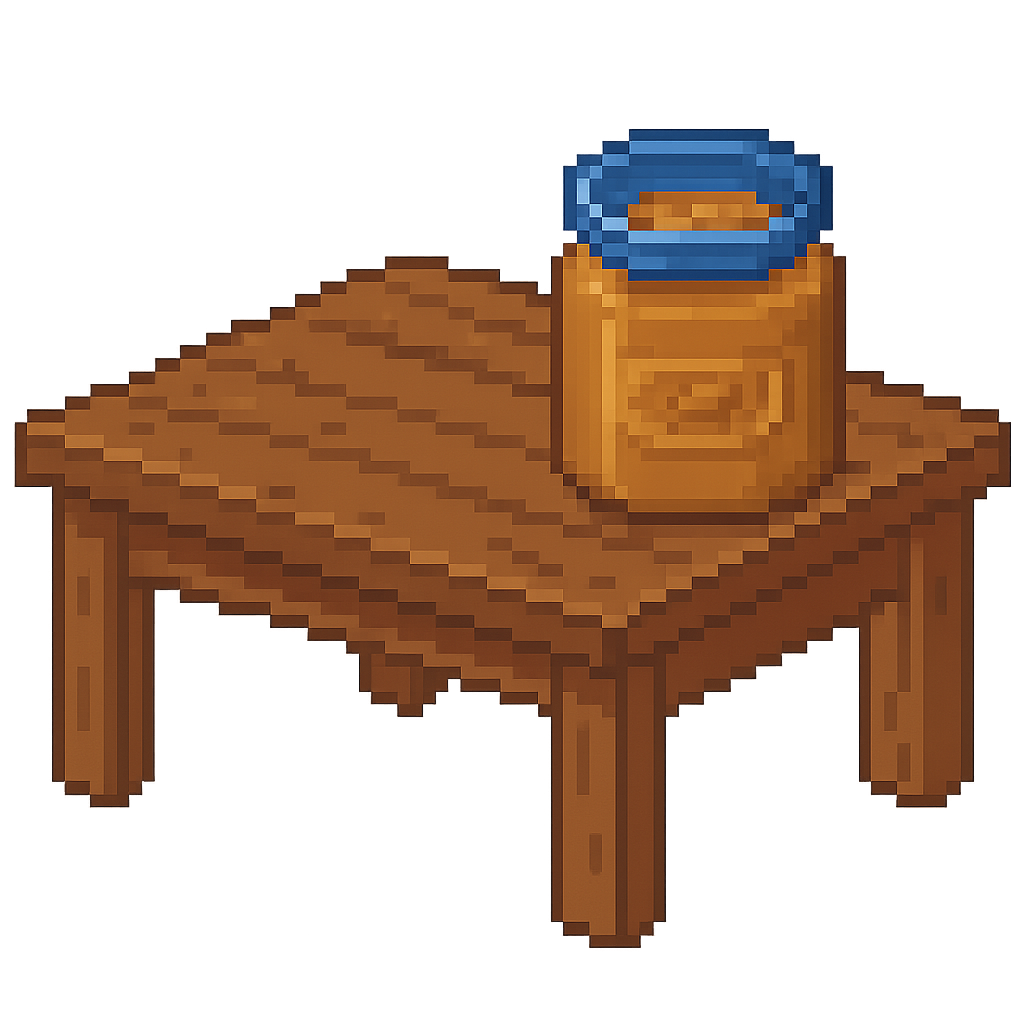
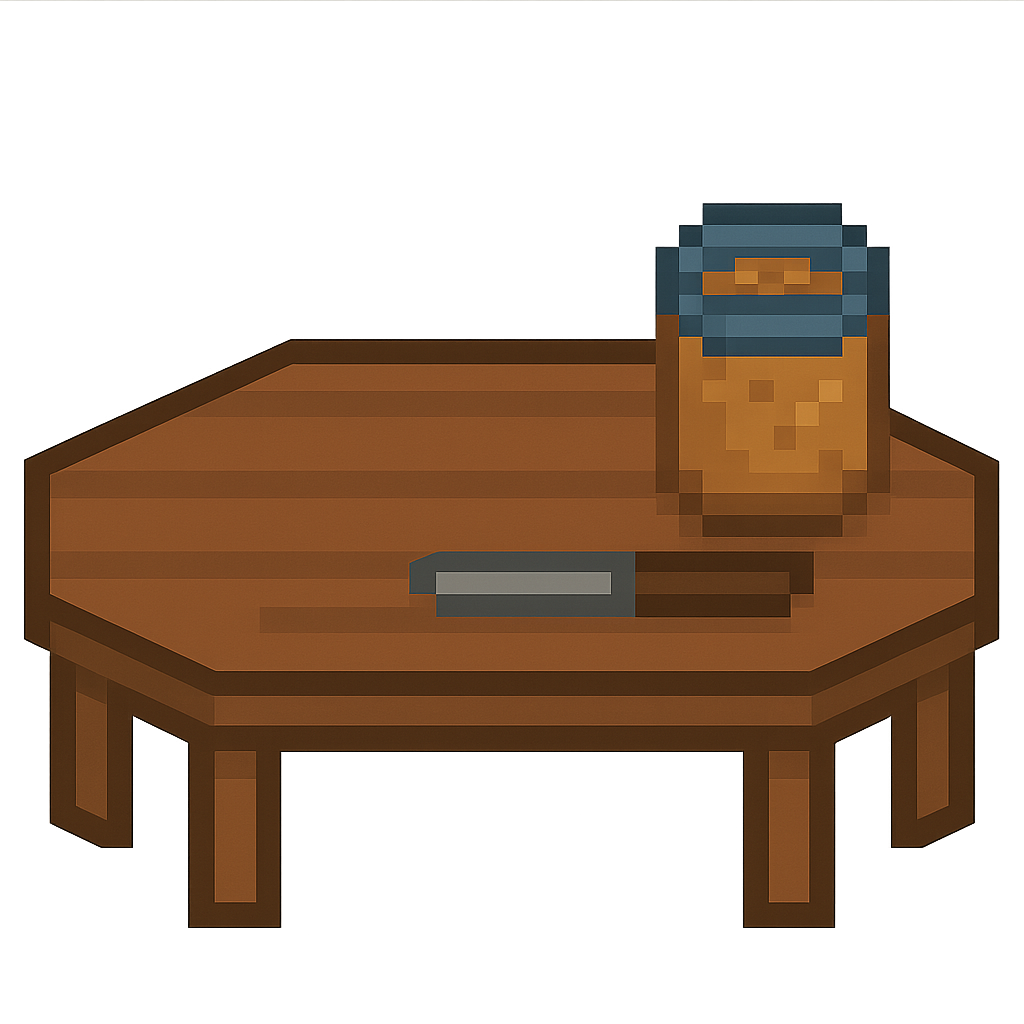
Added phase 2 table

diff --git a/client/src/App.jsx b/client/src/App.jsx
@@ -118,7 +118,7 @@ function App(){
       if(phase1 && lowerUserInput != instruction2){
         //Message At Phase 1 (Wrong)
         if(!phase1 && lowerUserInput == "eat"){
-          setDialogue("You ate the Bread.You Lost.")
+          setDialogue("You ate the Bread.You Lost.");
           setWon(false);
           setLost(true);
           clearInterval(interval.current);
@@ -134,7 +134,7 @@ function App(){
 
       if(lowerUserInput == instruction2 && phase1 == true){
         setPhase2(true);
-        setDialogue("You put the bread on the table.")
+        setDialogue("You put the bread on the table.");
       }
 
       if(phase2 && lowerUserInput != instruction3){
@@ -184,7 +184,7 @@ function App(){
       }
       if(lowerUserInput == instruction5 && phase4 == true){
         setPhase5(true);
-        setDialogue("The Butter Is Now On The Knife.")
+        setDialogue("The Butter Is Now On The Knife.");
       }
       if(phase5 && lowerUserInput != instruction6){
         //Message At Phase 5 (Wrong)
@@ -200,18 +200,18 @@ function App(){
       }
       if(lowerUserInput == instruction6 && phase5 == true){
         setPhase6(true);
-        setDialogue("The Butter is Now On The Bread.")
+        setDialogue("The Butter is Now On The Bread.");
       }
       if(phase6 && lowerUserInput != instruction7){
         //Message At Phase 6 (Wrong)
       }
       if(lowerUserInput == instruction7 && phase6 == true){
         setPhase7(true);
-        setDialogue("You Ate The Peanut Butter Bread!You Won!")
+        setDialogue("You Ate The Peanut Butter Bread!You Won!");
         setTimeout(() => {
             endScreen();
             setWon(true);
-            clearInterval(interval.current)
+            clearInterval(interval.current);
         }, 3000);
       }
     }
@@ -223,7 +223,7 @@ function App(){
     if(event.key == "Enter"){
       if(dialogueCount <= 3 && userTurn == false){
         continueDialogue();
-        return
+        return;
       }
       if(userTurn == true){
       submitInstruction();
@@ -240,7 +240,7 @@ function App(){
     setDialogue("")
     console.log("TEST")
     let value = true;
-    setUserTurn(value)
+    setUserTurn(value);
   }
   
   function endScreen(){
@@ -252,16 +252,16 @@ function App(){
     let i = 0;
       interval.current = setInterval(() => {
       if(userInput == instruction7 && phase6 == true){
-        clearInterval(interval.current)
+        clearInterval(interval.current);
       }
-        i++
+        i++;
         setTimeLeft(60 - i);
         if(i == totalTime){
           clearInterval(interval.current);
           endScreen();
         }
         if(phase6 && userInput == instruction7){
-          clearInterval(interval.current)
+          clearInterval(interval.current);
         }
      }, 1000);
   
@@ -300,7 +300,7 @@ function App(){
           <label className="text-sm pt-10 accent-lime-300"><input type="checkbox" readOnly className="mx-2 pointer-events-none" checked={phase7}/>{phase7 ? instruction7 : "???"}</label>
         </div>
           <div className="w-0 border-0">
-            <img src={`${ !phase1 || phase2 ? "./steve.png" : ""} ${phase1 && !phase2 ? "./stevephase1.png" : ""}`} className={`${!phase7? "w-18 h-26 bobbing": "w-20 h-25"} border-0 absolute top-[35%]`}></img>
+            <img src={`${ !phase1 || phase2 ? "./steve.png" : ""} ${phase1 && !phase2 ? "./stevephase1.png" : ""} ${phase3 && !phase4 ? "./phase3Table.png" : ""}`} className={`${!phase7? "w-18 h-26 bobbing": "w-20 h-25"} border-0 absolute top-[35%]`}></img>
             <img src={`${!phase1? "./phase0Table.png" : ""} ${phase1 && !phase2 ? "./phase1table.png" : ""} ${phase2 ? "phase2table.png" : ""}`} className="border-0 absolute top-[36%] bobbing left-[55%] w-18 h-26 `"></img>
           </div>
           <div id="dialogueBox" className="border-2 w-[85%] h-[30%] absolute bottom-[10%] left-[8%] rounded-lg">
